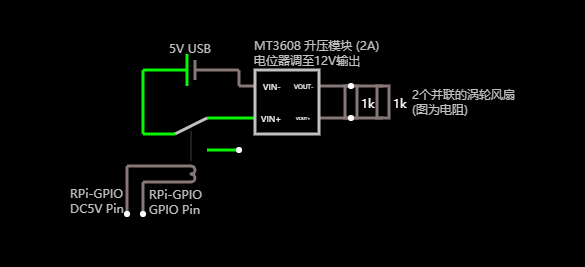
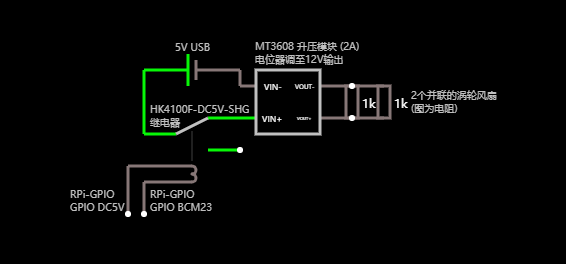
修改电路图 & 程序增加更多选项

Changed region(s): [[0.1201, 0.1515, 0.9011, 0.8182]]

diff --git a/main.py b/main.py
@@ -15,8 +15,8 @@ def execute_command_line(cli):
 
             # print(proc.communicate()) # 标准输出的字符串+标准错误的字符串
             outinfo, errinfo = proc.communicate()
-            outinfo = outinfo.decode('gbk')
-            errinfo = errinfo.decode('gbk')
+            outinfo = outinfo.decode('utf-8')
+            errinfo = errinfo.decode('utf-8')
             infos = {'outinfo': outinfo, 'errinfo': errinfo}
             # print(outinfo.decode('gbk'))  # 外部程序(windows系统)决定编码格式
             # print(errinfo.decode('gbk'))
@@ -26,7 +26,6 @@ def execute_command_line(cli):
             return
 
 def get_disk_temp(disk):
-    # disk_ = '/dev/sdb'
     disk_info = []
     info = execute_command_line('sudo smartctl -A ' + disk + ' | grep 194')['outinfo'].split(' ')  # C2(194) 温度 Temperature
     for i in info:
@@ -53,33 +52,90 @@ def get_cpu_temp():
     #print(cpu_temp)
     return cpu_temp
 
-def main(also_by_CPU_temp_control=False):
-    GPIO_PIN = 21  # BCM
+def get_disk_IO_util(device):
+    # sudo apt-get install sysstat
+    o = execute_command_line("sar -d 1 1 | grep '" + device + "'")['outinfo'].split(' ')
+    while '' in o:
+        o.remove('')
+    # print(o)
+    r = o[9].split('\n')
+    return r[0]
+
+def main(also_by_cpu_temp_control=False, do_nothing_at_night=False, not_check_disk_temp_if_not_in_use=False):
+    # 风扇亦受CPU温度控制, 在晚上什么都不做, 如果硬盘没有使用不要检测其温度
+
+    GPIO_PIN = 26  # BCM
     DUTATION = 60  # s
     DISK_TEMP_LIMIT = 40  # ℃
     CPU_TEMP_LIMIT = 60  # ℃
-    DISK = '/dev/sdb'
+    NIGHT_HOURS = [0,1,2,3,4,5,6]  # 0-24 hour
+    DISK = '/dev/sda'
+    DISK_IO_UTIL_THRESHOLD_VALUE = 0.0  # 若磁盘IO Util高于此值即判定硬盘为使用中状态
+    NORMALLY_OPEN_OR_CLOSED = True  # True=继电器常开, False=继电器常闭
+    
+    disk_ = DISK.split('/')[2]  # for get_disk_IO_util(device)
     cli = 'python3 ' + path.split(path.realpath(__file__))[0] + '/control.py ' + str(GPIO_PIN) + ' ' + str(DUTATION)
     # print(cli)
     while True:
-        cur_disk_temp = get_disk_temp(DISK)
+        now_ = time.localtime()
+        now = time.strftime("%Y-%m-%d %H:%M:%S", now_)
+        hour_now = time.strftime("%H", now_)
+        continue_ = False
+
+        for i in range(0,len(NIGHT_HOURS)):
+            if (str(NIGHT_HOURS[i]) == str(hour_now)):
+                continue_ = True
+        if continue_ and do_nothing_at_night:
+            print("At night({} o'clock), do nothing.".format(str(hour_now)))
+            time.sleep(DUTATION)
+            continue
+        
+        disk_IO_util_now = get_disk_IO_util(disk_)
+        not_ = ''
+        nocheckdt = False
+        if (not(float(disk_IO_util_now) > float(DISK_IO_UTIL_THRESHOLD_VALUE))):
+            not_ = 'not '
+            strs = ["[{}] Disk is {}in use ({})".format(now, not_, disk_IO_util_now), ', disk temperature will not be checked (return -1)']
+            if not_check_disk_temp_if_not_in_use:
+                nocheckdt = True
+                print(strs[0] + strs[1])
+            else:
+                print(strs[0])
+        else:
+            strs = ["[{}] Disk is {}in use ({})".format(now, not_, disk_IO_util_now), ', disk temperature will not be checked (return -1)']
+            print(strs[0])
+        
+        if nocheckdt:
+            cur_disk_temp = -1
+        else:
+            cur_disk_temp = get_disk_temp(DISK)
         cur_cpu_temp = get_cpu_temp()
         overrun = {'disk': cur_disk_temp >= DISK_TEMP_LIMIT, 'cpu': cur_cpu_temp >= CPU_TEMP_LIMIT}
-        now = time.strftime("%Y-%m-%d %H:%M:%S", time.localtime())
+        
         texts = ['[{}] '.format(now), 'Out of limit: Disk={}({}℃)'.format(overrun['disk'], cur_disk_temp), ', CPU={}({}℃)'.format(overrun['cpu'], cur_cpu_temp)]
         
-        if also_by_CPU_temp_control:
+        if also_by_cpu_temp_control:
             print(texts[0] + texts[1] + texts[2])
             conditions = overrun['disk'] or overrun['cpu']
         else:
             print(texts[0] + texts[1])
             conditions = overrun['disk']
         
-        if (conditions):
+        if NORMALLY_OPEN_OR_CLOSED:
+            # 常开继电器
+            if conditions:
+                execute_command_line(cli)
+                continue
             time.sleep(DUTATION)
-            continue
-        execute_command_line(cli)
+        else:
+            # 常闭继电器
+            if conditions:
+                time.sleep(DUTATION)
+                continue
+            execute_command_line(cli)
+
+        print('\n')
 
 
 if __name__ == '__main__':
-    main(True)
+    main(True, True, True)
